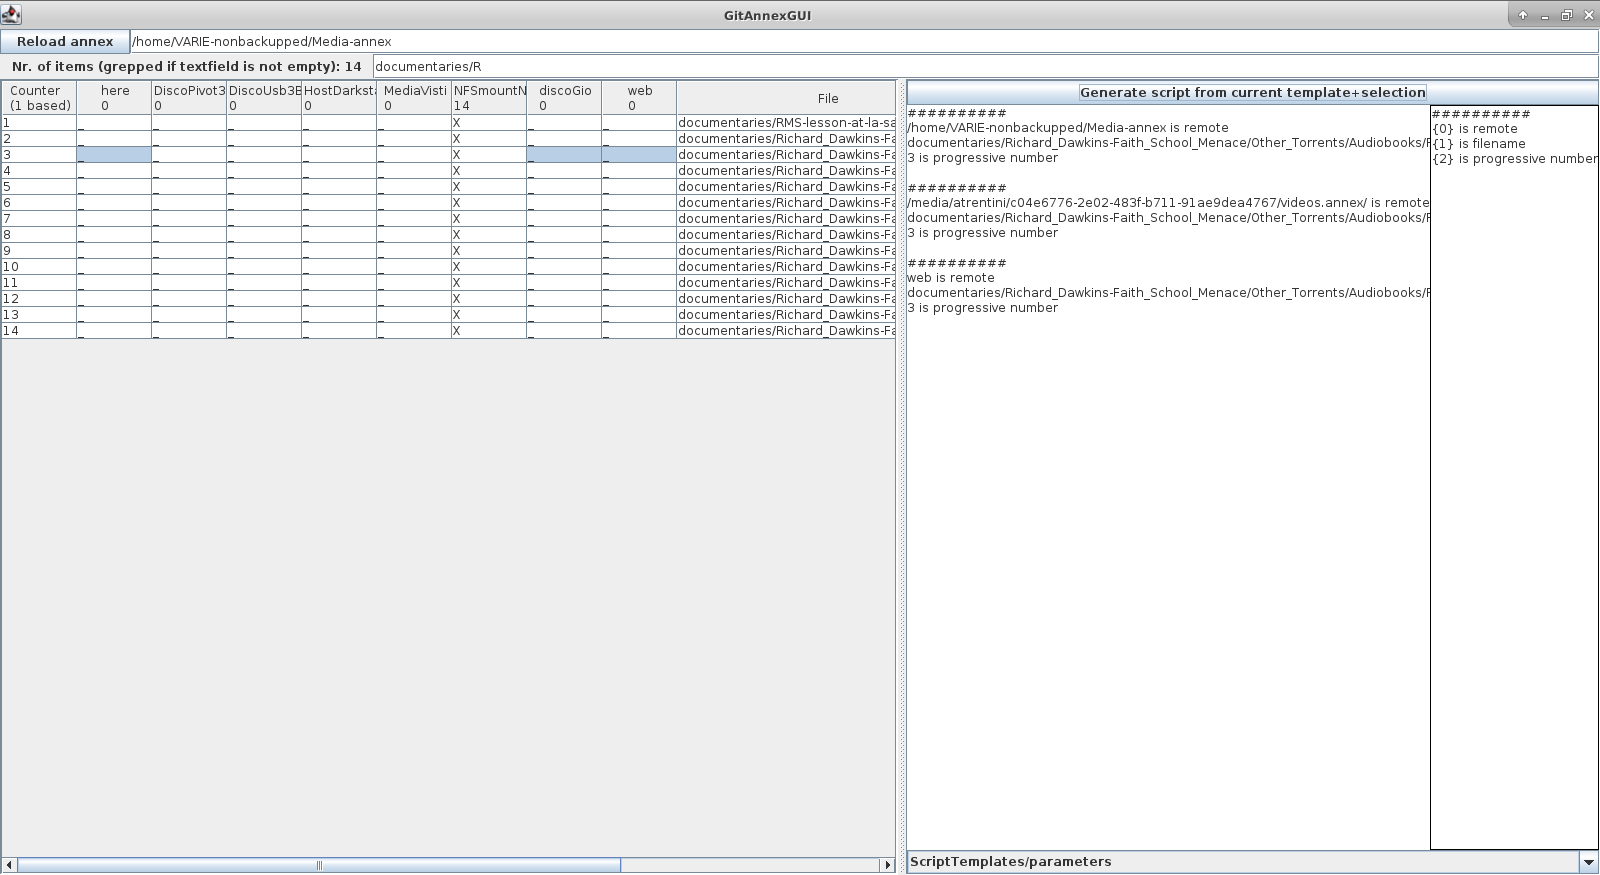
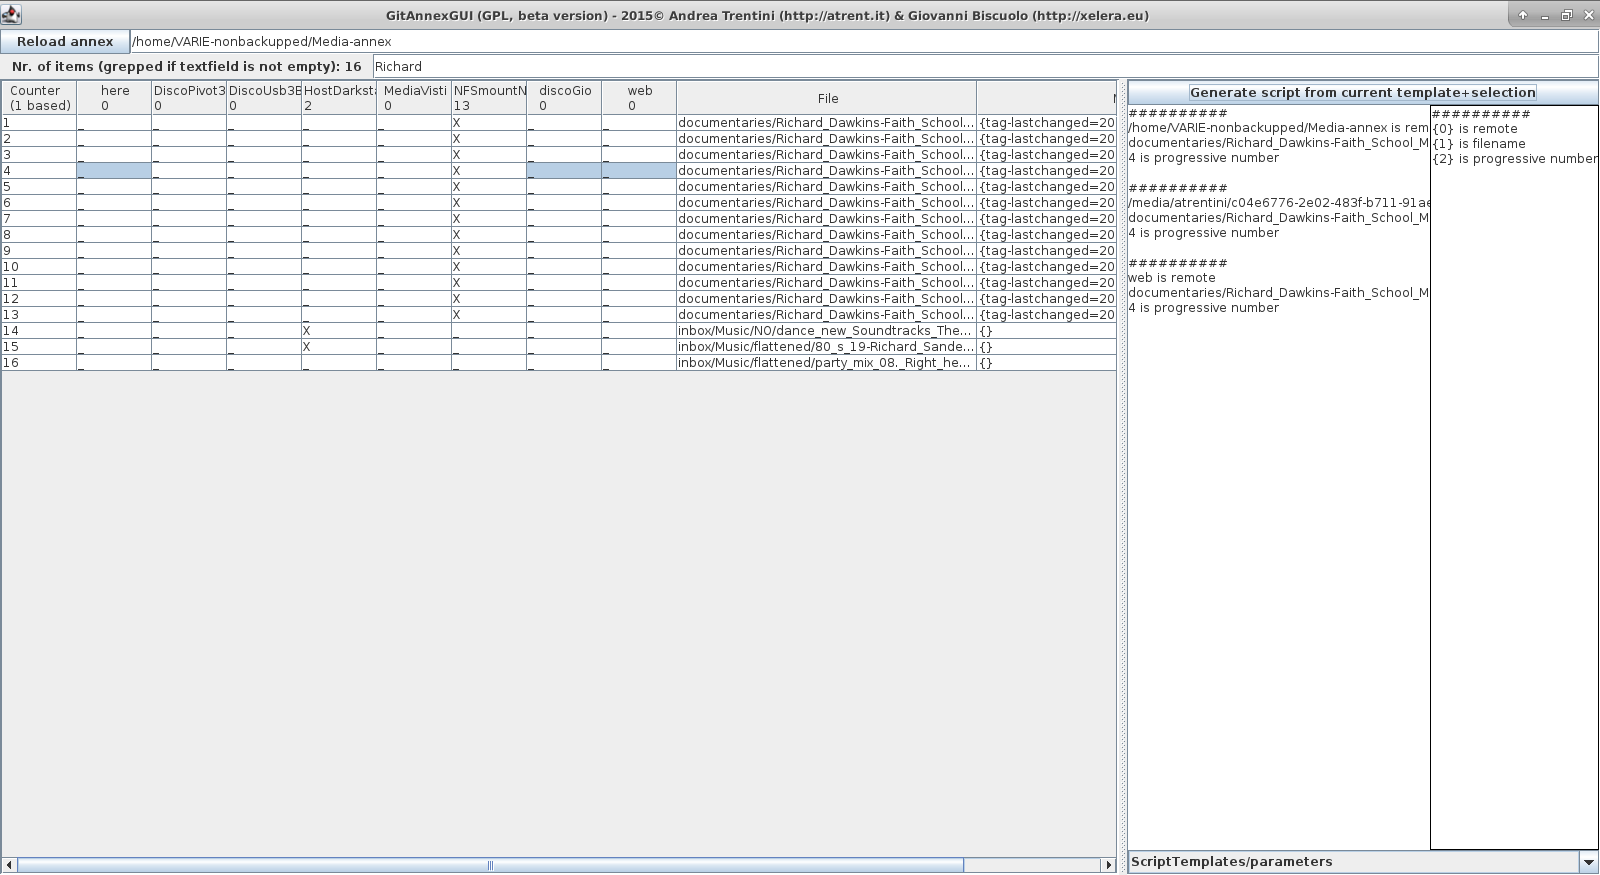
altro bachetto + aggiornato screen coi copyright

diff --git a/ga-gui/GitAnnexGUI.java b/ga-gui/GitAnnexGUI.java
@@ -30,6 +30,11 @@ import java.text.*;
 
 public class GitAnnexGUI extends JFrame {
 
+	///////////////////////////////////////////////////////
+	//TODO: come mai la splitbar ad un certo punto si blocca?
+    //TODO: autodimensionamento colonne JTable
+    //TODO: (jtable) cambiare componente?
+
     //TODO: user doc
 
     //TODO: priorita' speed!!! e il collo di bottiglia e' git-annex command
@@ -38,18 +43,15 @@ public class GitAnnexGUI extends JFrame {
 
     //TODO: json?!? solo se aumenta la velocita'
 
-    //TODO: autodimensionamento colonne JTable
-
-    //TODO: (jtable) cambiare componente?
-
     //TODO: (opzionale) salva script con nome
-
+	///////////////////////////////////////////////////////
     //DONE: c'e' iteratore solo sui selezionati??? NO
     //DONE: check null pointer??? (non salta piu' fuori)
     //DONE: aggiungere campo numProgressivo?
+	///////////////////////////////////////////////////////
 
     // constants
-    public final static String MAIN_TITLE="GitAnnexGUI";
+    public final static String MAIN_TITLE="GitAnnexGUI (GPL, beta version) - 2015© Andrea Trentini (http://atrent.it) & Giovanni Biscuolo (http://xelera.eu)";
     public final static String TEMPLATES_DIR="ScriptTemplates";
     public final static String SAVED_STATUS="saved.status";
     public final static int LASTCOLWIDTH=300;
@@ -329,7 +331,7 @@ public class GitAnnexGUI extends JFrame {
                 if(annexedFilesTable.isCellSelected(row, col)) {
                     // prendi nome
                     String name=annexedFilesTable.getValueAt(row, colCount-2).toString();
-                    System.err.println("name: "+name);
+                    //System.err.println("name: "+name);
                     // prendi annexed, cerca nome in vector
                     AnnexedFile af=null;
                     int index=0;
